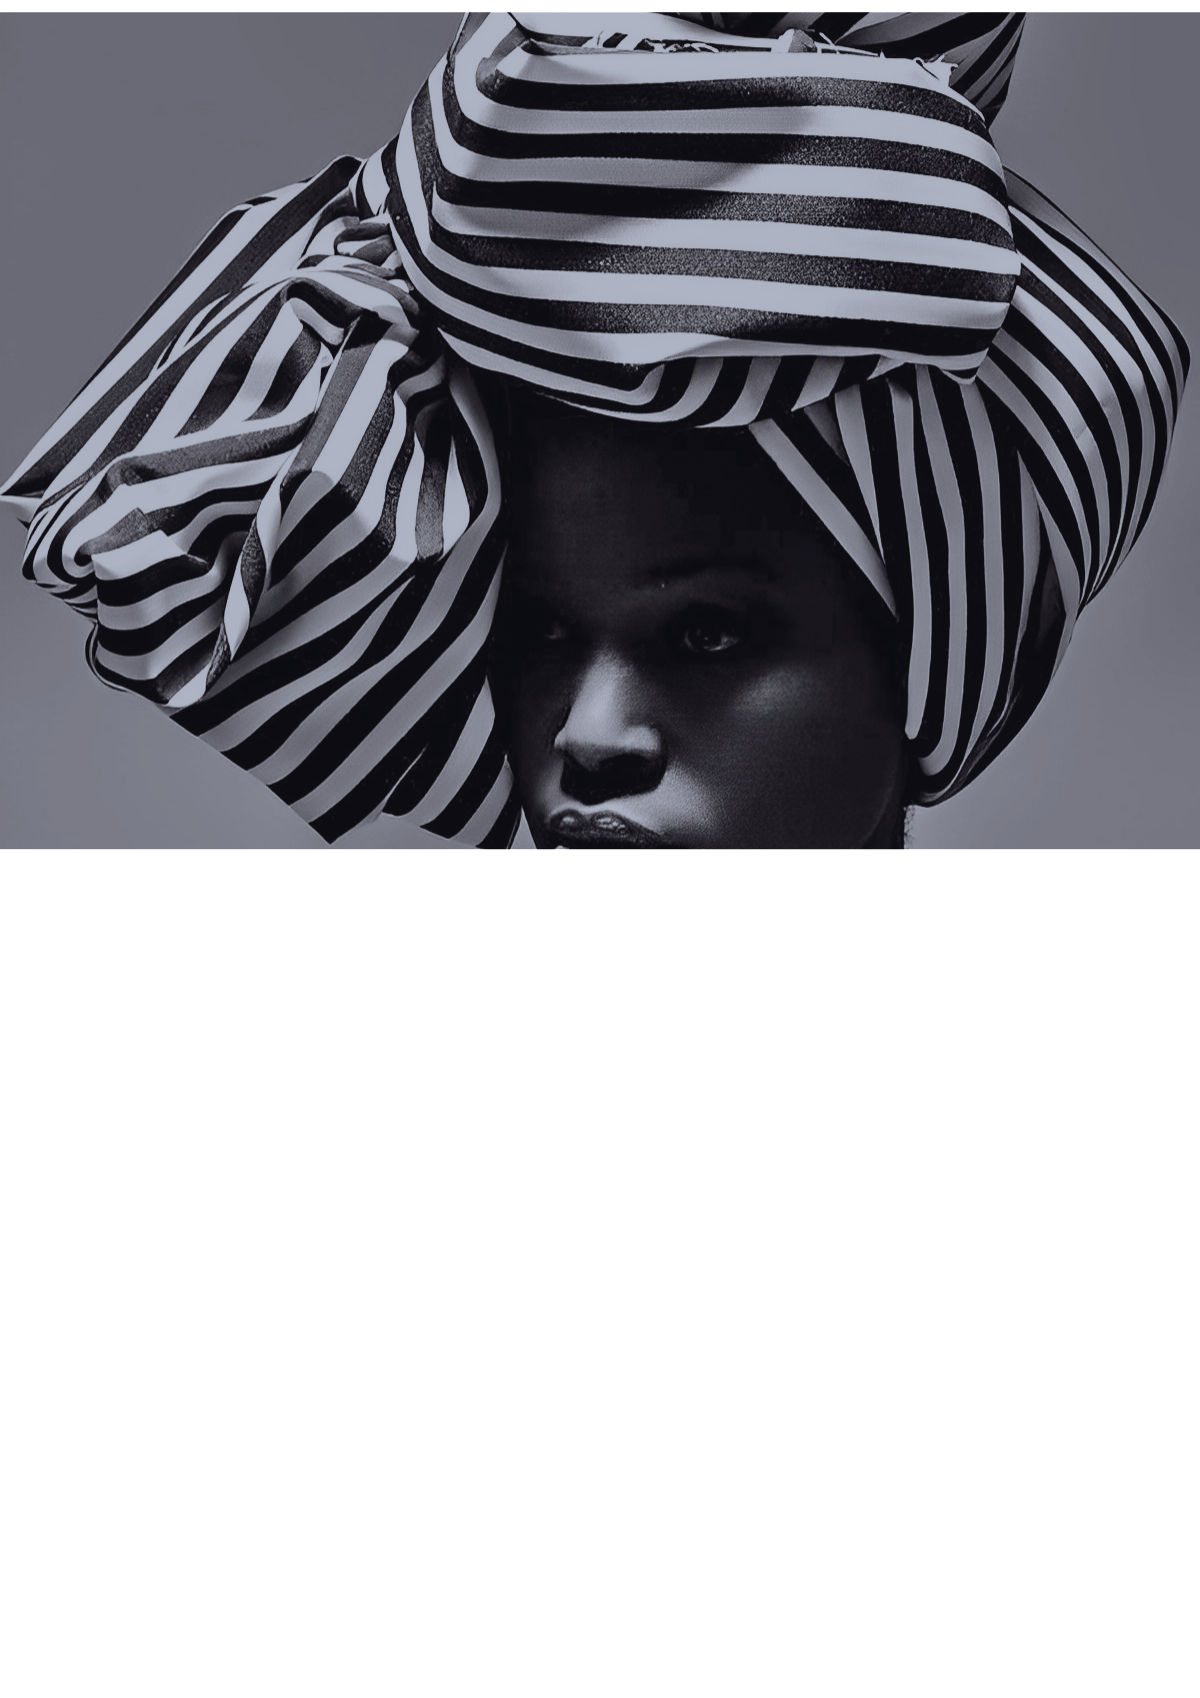
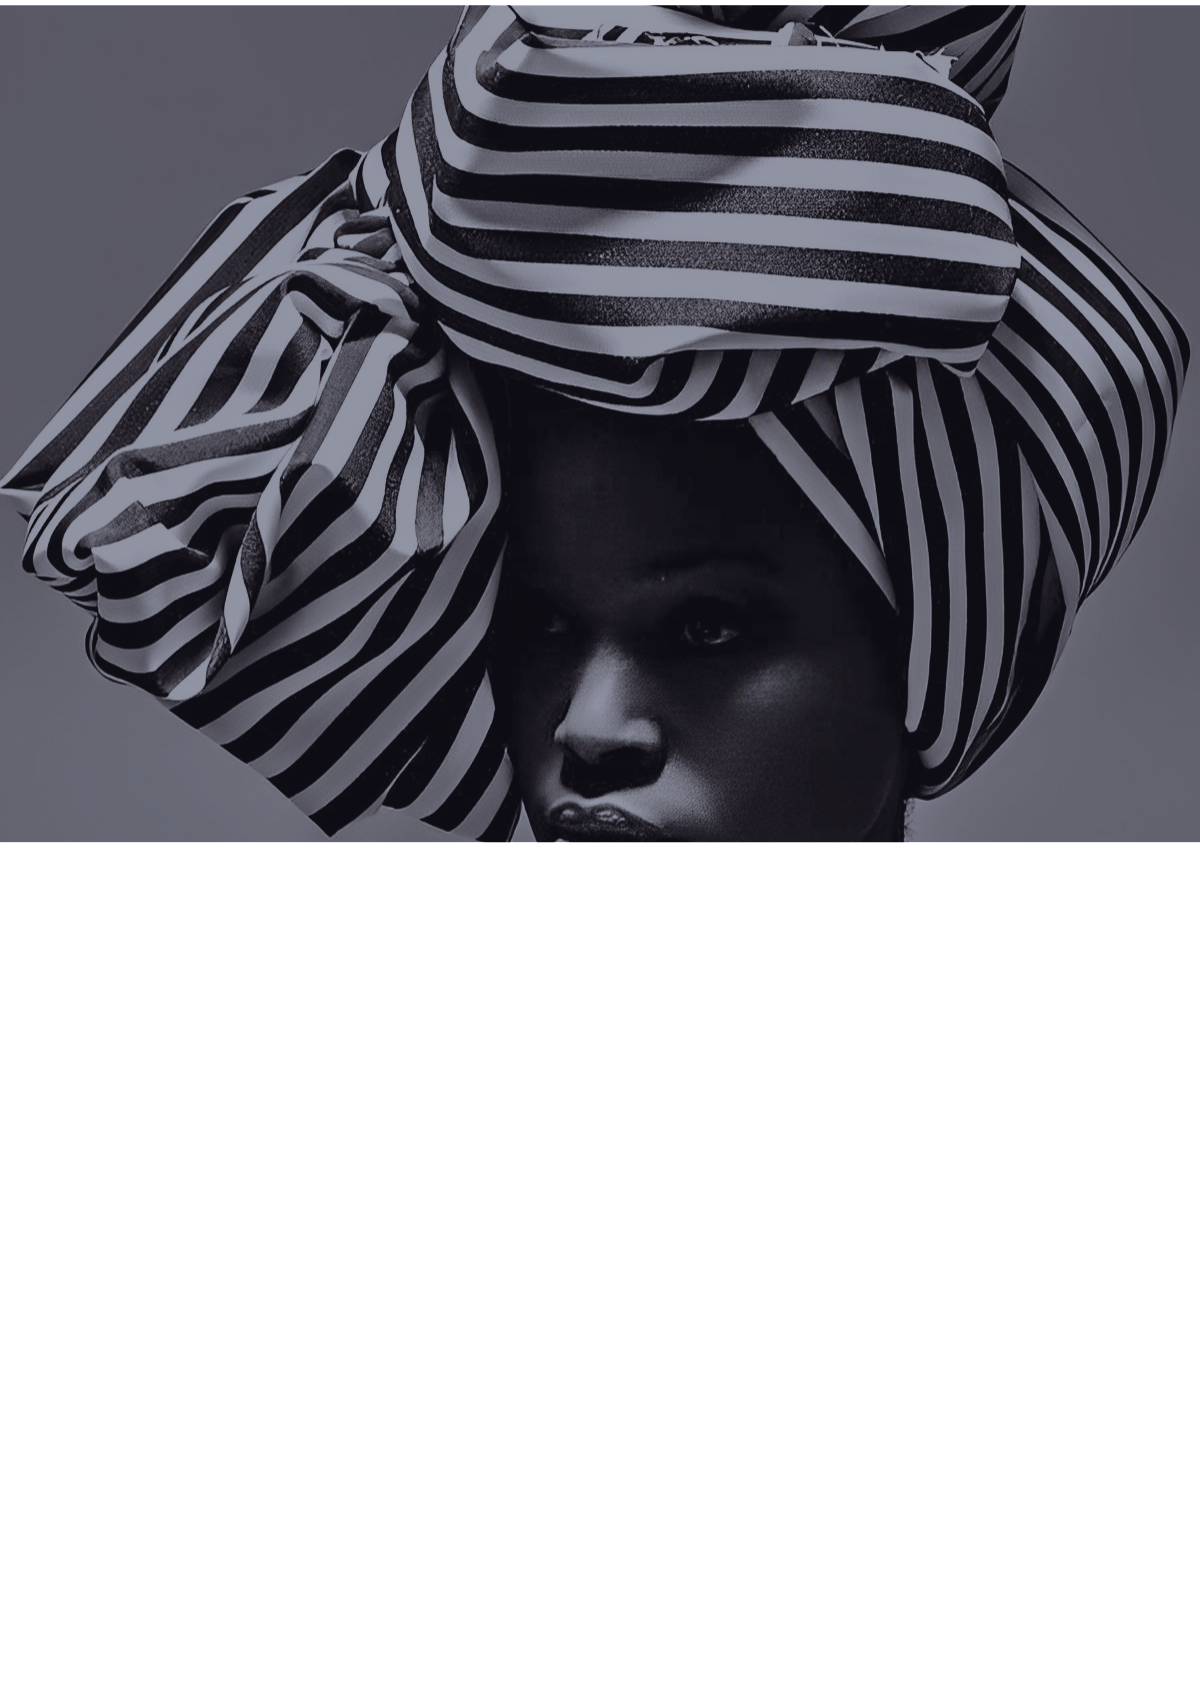
updated the landing page and added nav bars

Changed region(s): [[0.0, 0.0, 1.0, 0.4994]]

diff --git a/index.html b/index.html
@@ -44,7 +44,7 @@
         }
 
         .caption {
-            /* urbanizing the future of african fashion */
+        /* urbanizing the future of african fashion */
             position: absolute;
             left: 43.65%;
             right: 23.31%;
@@ -63,6 +63,220 @@
 
             color: #FFFFFF;
         }
+
+        .logo {
+        /* logo.png */
+
+            position: absolute;
+            height: 15vw;
+            left: 5.03%;
+            right: 74.67%;
+            top: calc(60% - 14rem/2 - 18rem);
+
+            background: url(logo.png);
+        }
+
+        .nav-frame {
+        /* the following css are for navigation*/
+        
+        /* the nav div */
+            display: flex;
+            flex-direction: row;
+            align-items: flex-start;
+            padding: 0px;
+            gap: 1.8vw;
+
+            position: absolute;
+            width: 29rem;
+            color: white;
+            height: 1rem;
+            left: 56vw;
+            top: 8rem;
+        }
+
+        /* the nav buttons */
+        .home {
+        /* Home */
+
+            font-style: normal;
+            font-weight: 700;
+            font-size: 1.30vw;
+            line-height: 1.5vw;
+            /* or 125% */
+
+            display: flex;
+            align-items: center;
+            text-align: center;
+
+            color: #FFFFFF;
+
+
+            /* Inside auto layout */
+
+            flex: none;
+            order: 0;
+            flex-grow: 0;
+        }
+
+        .volunteer {
+        /* Volunteer */
+
+            font-style: normal;
+            font-weight: 500;
+            font-size: 1.2vw;
+            line-height: 1.5vw;
+            /* or 125% */
+
+            display: flex;
+            align-items: center;
+            text-align: center;
+
+            color: #FFFFFF;
+
+
+            /* Inside auto layout */
+
+            flex: none;
+            order: 1;
+            flex-grow: 0;
+        }
+
+        .partner {
+        /* Partnership-section */
+
+            font-style: normal;
+            font-weight: 500;
+            font-size: 1.2vw;
+            line-height: 1.5vw;
+            /* or 125% */
+
+            display: flex;
+            align-items: center;
+            text-align: center;
+
+            color: #FFFFFF;
+
+
+            /* Inside auto layout */
+
+            flex: none;
+            order: 1;
+            flex-grow: 0;
+        }
+
+        .contact {
+        /* contact-us */
+
+            font-style: normal;
+            font-weight: 500;
+            font-size: 1.2vw;
+            line-height: 1.5vw;
+            /* or 125% */
+
+            display: flex;
+            align-items: center;
+            text-align: center;
+
+            color: #FFFFFF;
+
+
+            /* Inside auto layout */
+
+            flex: none;
+            order: 1;
+            flex-grow: 0;
+        }
+
+        .about {
+        /* About-section */
+
+            font-style: normal;
+            font-weight: 500;
+            font-size: 1.2vw;
+            line-height: 1.5vw;
+            /* or 125% */
+
+            display: flex;
+            align-items: center;
+            text-align: center;
+
+            color: #FFFFFF;
+
+
+            /* Inside auto layout */
+
+            flex: none;
+            order: 1;
+            flex-grow: 0;
+        }
+
+        /* social media icons */
+        .social {
+            
+        /* the icons frame */
+            display: flex;
+            flex-direction: row;
+            align-items: center;
+            padding: 0px;
+            gap: 15px;
+
+            position: absolute;
+            left: 80vw;
+            top: 70vw;
+            background-color: aqua;
+
+            transform: rotate(90deg);
+        }
+
+        /* 632311c29a4f53a35fa38773_instagram.png */
+
+        .youtube {
+            width: 35px;
+            height: 35px;
+
+
+            /* Inside auto layout */
+
+            flex: none;
+            order: 0;
+            flex-grow: 0;
+        }
+
+        .twitter {
+            width: 35px;
+            height: 35px;
+
+
+            /* Inside auto layout */
+
+            flex: none;
+            order: 1;
+            flex-grow: 0;
+        }
+
+        .facebook {
+            width: 35px;
+            height: 35px;
+
+
+            /* Inside auto layout */
+
+            flex: none;
+            order: 2;
+            flex-grow: 0;
+        }
+
+        .instagram {
+            width: 35px;
+            height: 35px;
+
+
+            /* Inside auto layout */
+
+            flex: none;
+            order: 3;
+            flex-grow: 0;
+        }
     </style>
 </head>
 <body>
@@ -78,6 +292,25 @@
         <p class="caption">
             Urbanizing the future of african fashion
         </p>
+
+        <img class="logo" src="Images-asset/logo.png" alt="logo of OAUFW">
+
+<!--The Nav buttons-->
+        <div class="nav-frame">
+            <p class="home">Home</p>
+            <p class="volunteer">Volunteer</p>
+            <p class="partner">Partnership</p>
+            <p class="contact">Contact us</p>
+            <p class="about">About</p>
+        </div>
+
+<!-- The social icon div -->
+        <div class="socials">
+            <img class="instagram" src="images-asset/instagram.svg" alt="instagram button">
+            <img class="facebook" src="images-asset/facebook.svg" alt="facebook button">
+            <img class="twitter" src="images-asset/twitter.svg" alt="twitter">
+            <img class="youtube" src="images-asset/youtube.svg" alt="youtube">
+        </div>
     </div>
 </body>
 </html>
